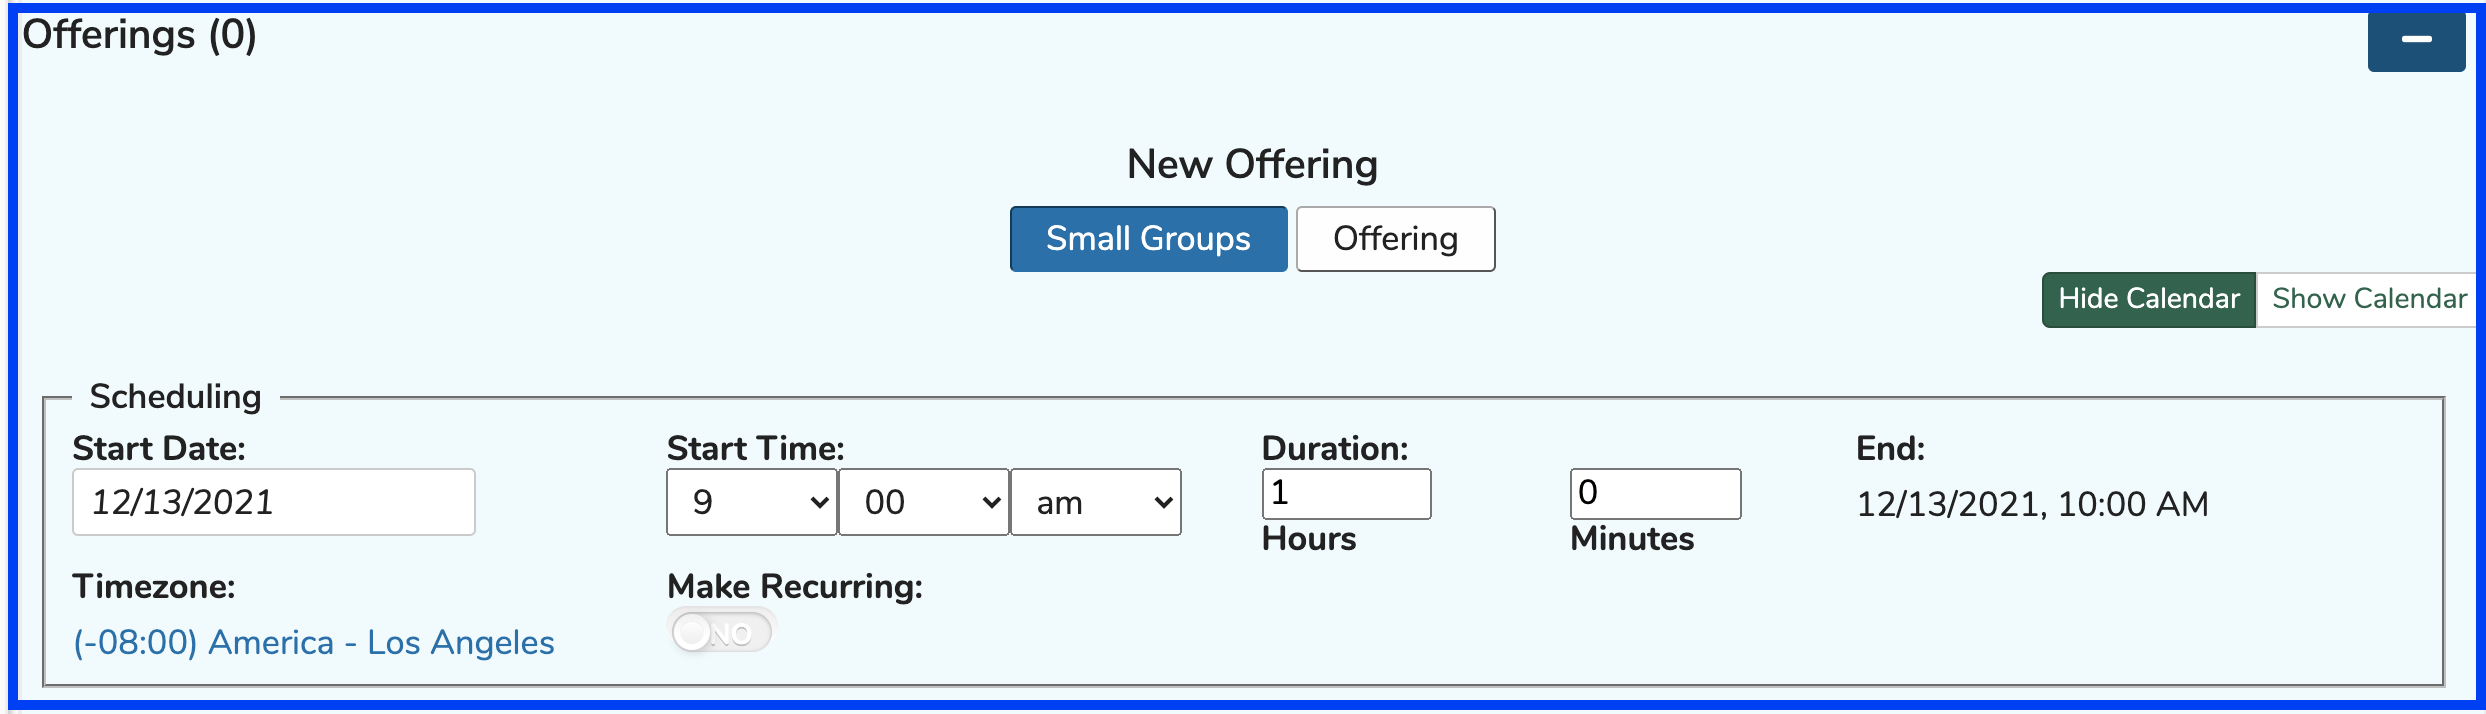
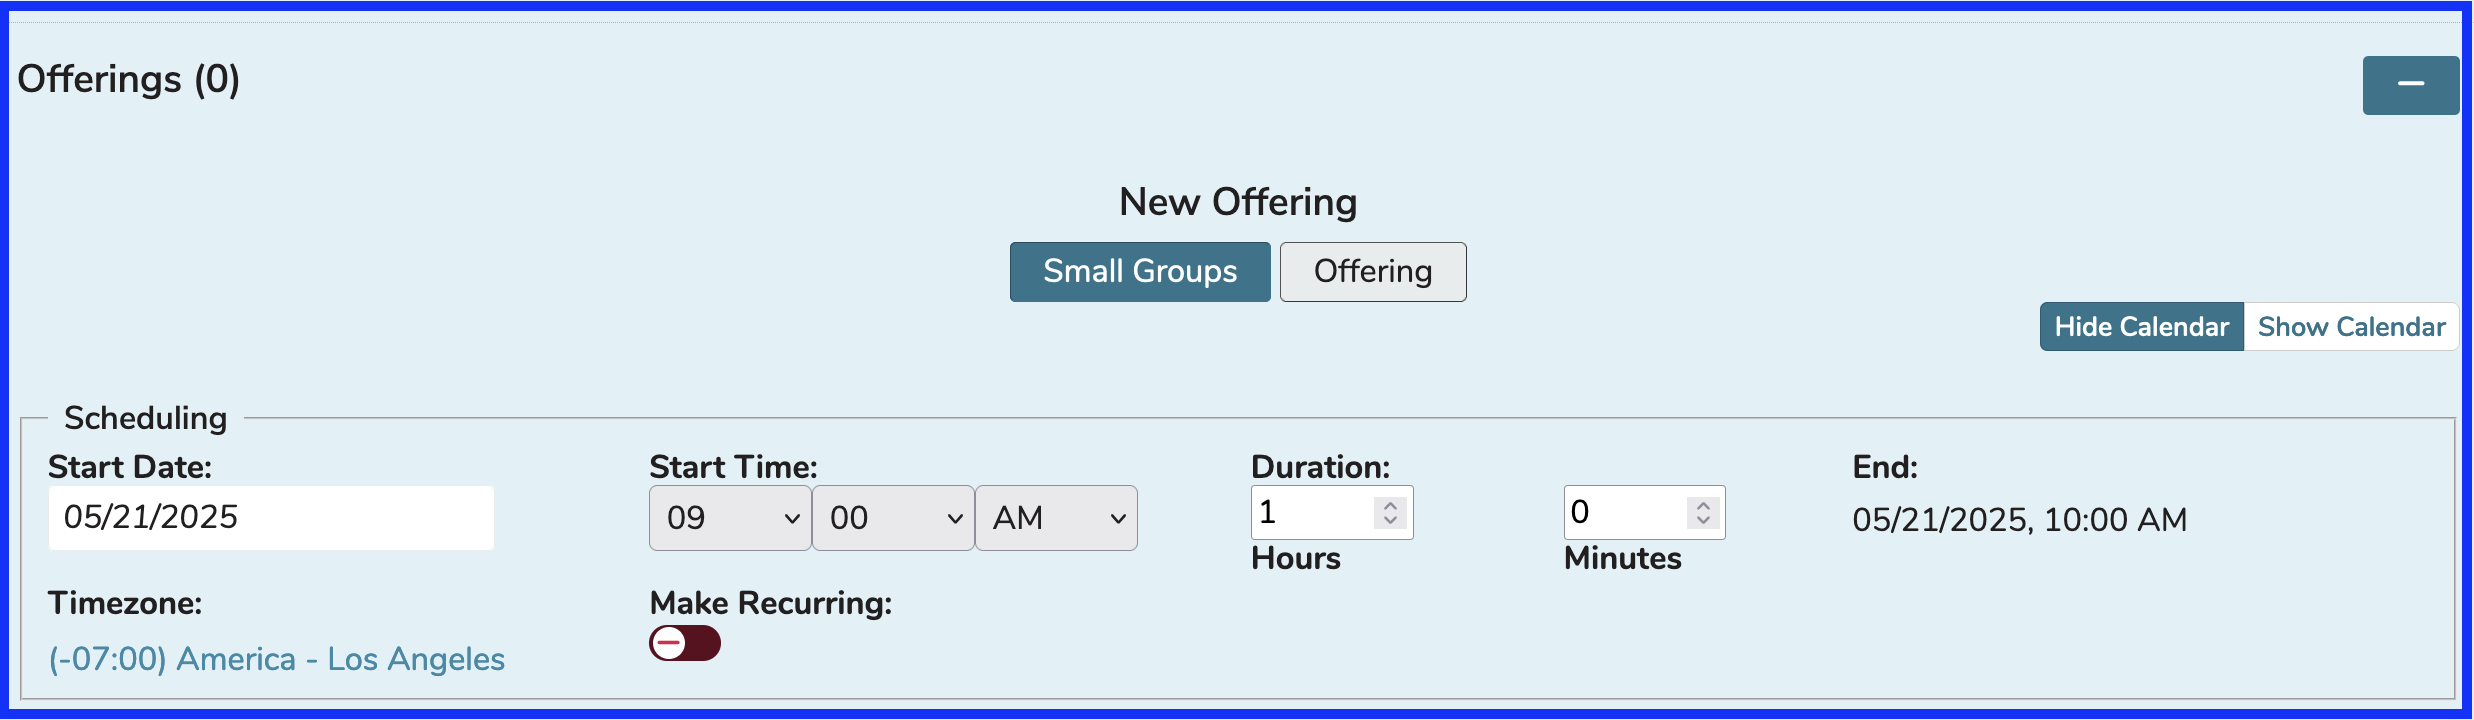
added new image and text updates too

diff --git a/courses-and-sessions/offerings/create-small-group-offerings.md b/courses-and-sessions/offerings/create-small-group-offerings.md
@@ -22,11 +22,11 @@ After clicking the (+) button as shown above to start the process, the screen re
 * **Duration** - Enter a value in the hours field and minutes field
 * **End (Time)** - This gets selected based on the choices made above
 * **Timezone** - This can be selected as well - useful if you have multiple campuses in different time zones
-* **[Make Recurring](https://iliosproject.gitbook.io/ilios-user-guide/courses-and-sessions/offerings/recurring-event)** - Used when you wish for an offering to be repeated a specified number of times.
+* **[Make Recurring](https://iliosproject.gitbook.io/ilios-user-guide/courses-and-sessions/offerings/recurring-event)** - Used when an offering is to be repeated a specified number of times.
 
-![Offering Editor - top part](../../images/create_small_group_offerings/offering_editor_top.png)
+![offering editor - top part](../../images/create_small_group_offerings/offering_editor_top.png)
 
-The default selection for adding offerings is "Small Groups". The Start Date (and End Date since it is a single day event) has been set to "12/13/2021" and the event Start and End Time has been set to 9:00 AM -10:00 AM.
+The default selection for adding offerings is "Small Groups". The Start Date (and End Date since it is a single day event) has been set to "5/21/2025" and the event's start and end time have been set to 9:00 AM -10:00 AM. The event's end time is set by specifying the duration.
 
 Search for and choose "Demo Group" from the "Available Learner Groups" grid as shown below.
 
